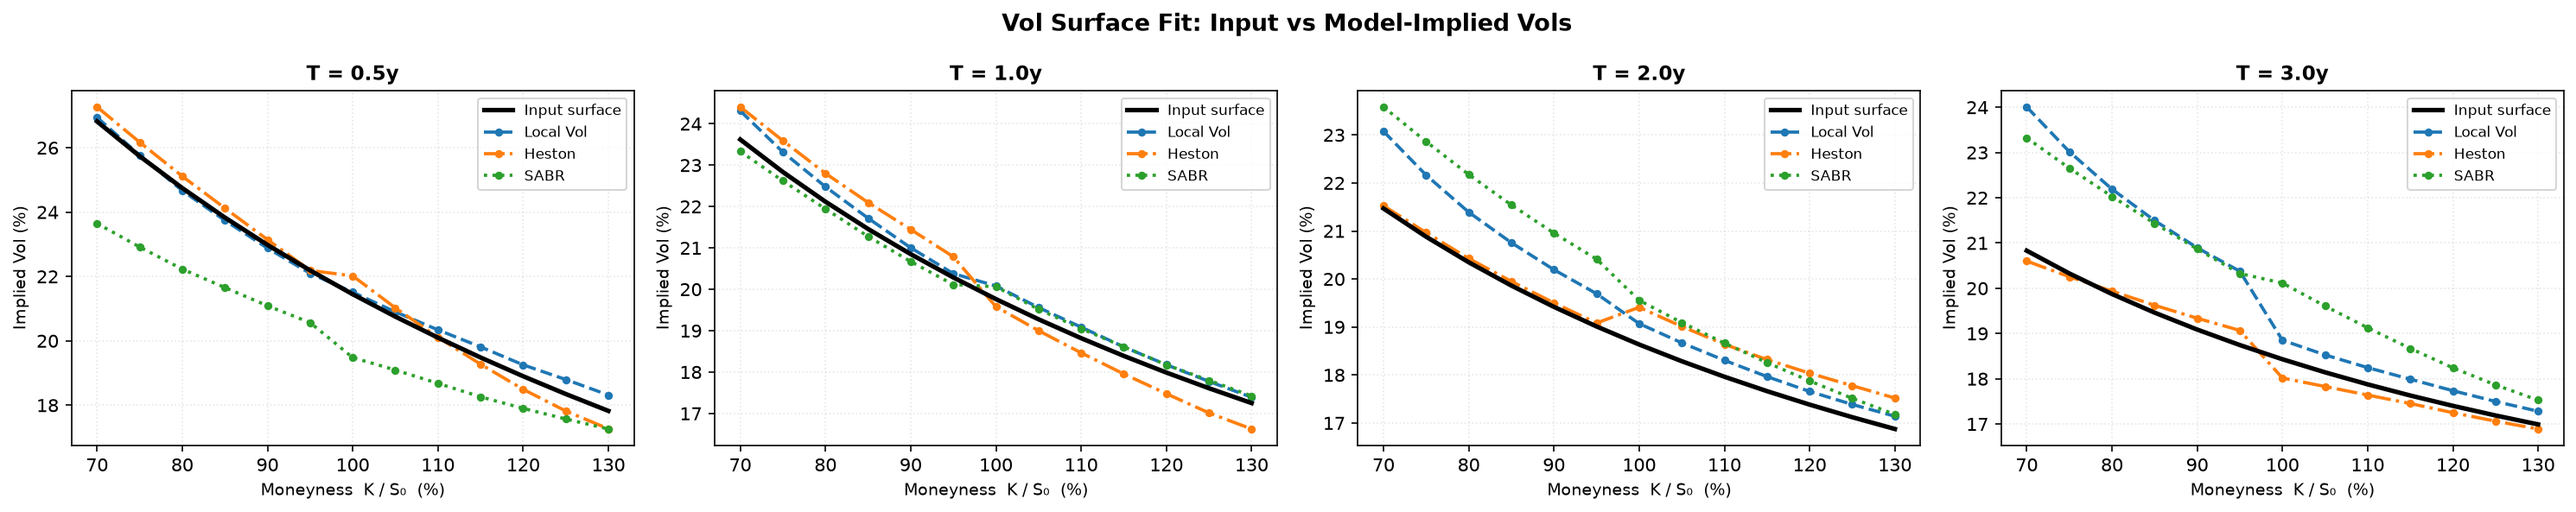
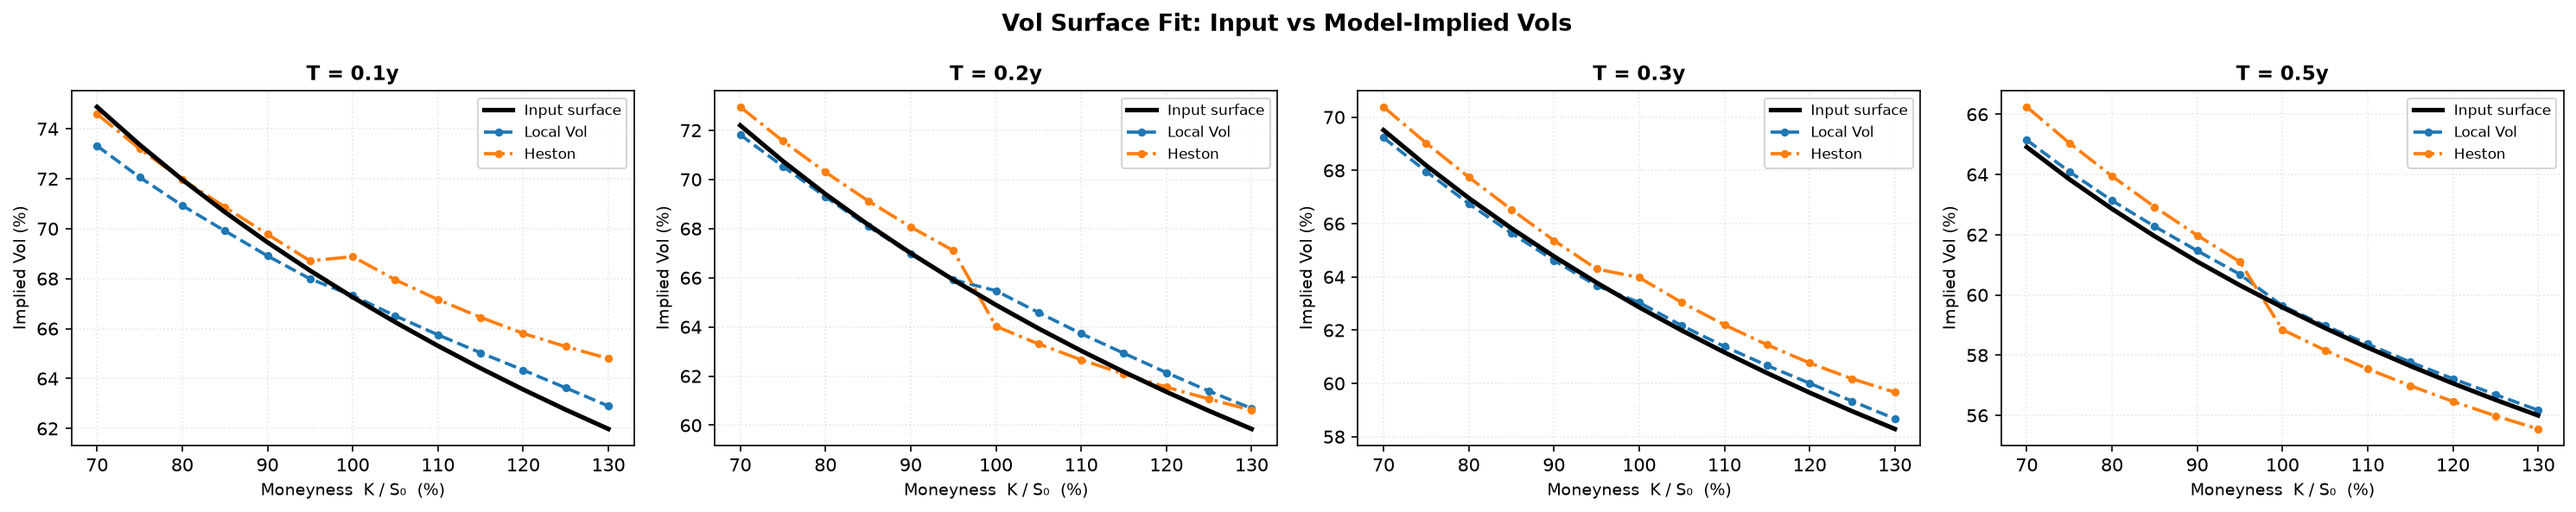
bug fix

diff --git a/main.py b/main.py
@@ -12,6 +12,7 @@ without touching this file.
 import sys
 import os
 import argparse
+import subprocess
 
 sys.path.insert(0, os.path.dirname(__file__))
 
@@ -24,6 +25,71 @@ from models.heston import HestonModel, HestonParams
 from models.sabr import SABRModel, SABRParams
 from products.autocallable import AutocallableNote
 from engine.mc_pricer import MCPricer, compare_models
+from engine.heston_cf import heston_price_batch
+from engine.black_scholes import implied_vol as bs_implied_vol
+
+
+def quick_fit_check(surface, heston_params, sabr_params, spot, rate, div_yield) -> None:
+    """
+    Analytical fit quality check — no MC, completes in ~1 second.
+
+    Evaluates model-implied vols at a small (T, K) grid and reports
+    RMSE and worst-case error in basis points per model.
+
+    Heston: priced via characteristic function (exact).
+    SABR:   priced via Hagan asymptotic formula (exact for beta=1).
+    Local Vol: fits the surface by construction — always exact.
+    """
+    T_min, T_max = surface.maturity_range
+    maturities = sorted({
+        round(max(T_min + 0.01, T_max * 0.25), 2),
+        round(T_max * 0.5, 2),
+        float(T_max),
+    })
+    moneyness = [0.70, 0.80, 0.90, 1.00, 1.10, 1.20, 1.30]
+
+    print("Vol Surface Fit — Analytical Check")
+    print("  Local Vol   exact fit (by construction)")
+
+    checks = []
+    if heston_params is not None:
+        checks.append(("Heston", heston_params))
+    if sabr_params is not None:
+        checks.append(("SABR  ", sabr_params))
+
+    for label, params in checks:
+        errors, worst = [], (0.0, None, None)
+        for T in maturities:
+            F = float(surface.forward(T))
+            strikes = np.array([F * m for m in moneyness])
+            iv_mkt = np.array([surface.implied_vol(T, K) for K in strikes])
+
+            if label.startswith("Heston"):
+                p = params
+                prices = heston_price_batch(spot, strikes, T, rate, div_yield,
+                                            p.kappa, p.theta, p.xi, p.rho, p.v0)
+                iv_mdl = np.array([
+                    bs_implied_vol(float(pr), spot, float(K), T, rate, div_yield, is_call=True)
+                    for pr, K in zip(prices, strikes)
+                ])
+            else:
+                iv_mdl = np.array([
+                    params.hagan_implied_vol(F, float(K), T) for K in strikes
+                ])
+
+            for j, (mkt, mdl, K) in enumerate(zip(iv_mkt, iv_mdl, strikes)):
+                if not np.isnan(mdl):
+                    err = mdl - mkt
+                    errors.append(err)
+                    if abs(err) > abs(worst[0]):
+                        worst = (err, T, K / spot)
+
+        if errors:
+            rmse = np.sqrt(np.mean(np.array(errors) ** 2)) * 10_000
+            max_err = worst[0] * 10_000
+            print(f"  {label}  RMSE: {rmse:5.1f}bp  "
+                  f"max: {max_err:+6.1f}bp  (T={worst[1]:.1f}y, K/S={worst[2]:.0%})")
+    print()
 
 
 def load_config(path: str) -> dict:
@@ -39,6 +105,9 @@ def build_surface(cfg: dict, spot: float, rate: float, div_yield: float):
         return flat_surface(spot=spot, vol=vc["atm_vol"], rate=rate,
                             div_yield=div_yield, T_max=T_max)
     if kind == "term_structure":
+        lo = vc.get("moneyness_lo")
+        hi = vc.get("moneyness_hi")
+        m_range = (float(lo), float(hi)) if (lo is not None and hi is not None) else None
         return term_structure_surface(
             spot=spot, rate=rate, div_yield=div_yield, T_max=T_max,
             vol_short=vc.get("vol_short", 0.25),
@@ -46,6 +115,9 @@ def build_surface(cfg: dict, spot: float, rate: float, div_yield: float):
             kappa=vc.get("kappa", 1.5),
             skew=vc.get("skew", -0.10),
             convexity=vc.get("convexity", 0.02),
+            n_T=int(vc.get("n_T", 30)),
+            n_K=int(vc.get("n_K", 60)),
+            moneyness_range=m_range,
         )
     return skewed_surface(spot=spot, atm_vol=vc["atm_vol"], skew=vc.get("skew", 0.0),
                           rate=rate, div_yield=div_yield, T_max=T_max)
@@ -55,6 +127,13 @@ def main():
     parser = argparse.ArgumentParser(description="Autocallable note pricer")
     parser.add_argument("--config", default="config.yaml",
                         help="Path to YAML config file (default: config.yaml)")
+
+    fit_group = parser.add_mutually_exclusive_group()
+    fit_group.add_argument("--full-diagnostic", action="store_true",
+                           help="Run full MC vol surface diagnostic before pricing "
+                                "(slow — uses diagnostics/model_quality.py)")
+    fit_group.add_argument("--no-fit-check", action="store_true",
+                           help="Skip fit check entirely and go straight to pricing")
     args = parser.parse_args()
 
     cfg = load_config(args.config)
@@ -106,6 +185,8 @@ def main():
     # ── Build pricers for selected models ─────────────────────────────────────
     models_cfg = cfg.get("models", {})
     pricers = []
+    heston_params = None
+    sabr_params = None
 
     if models_cfg.get("local_vol", True):
         lv_model = LocalVolModel(surface=surface, steps_per_year=52, seed=SEED)
@@ -140,6 +221,23 @@ def main():
     if not pricers:
         print("No models selected in config. Enable at least one under 'models:'.")
         sys.exit(1)
+
+    # ── Vol surface fit check ─────────────────────────────────────────────────
+    if args.full_diagnostic:
+        print()
+        print("Running full MC diagnostic (diagnostics/model_quality.py)...")
+        print("-" * 65)
+        subprocess.run(
+            [sys.executable, "-u", "diagnostics/model_quality.py", "--config", args.config],
+            check=True,
+        )
+        print("-" * 65)
+        print()
+    elif not args.no_fit_check:
+        quick_fit_check(surface,
+                        heston_params if models_cfg.get("heston", True) else None,
+                        sabr_params   if models_cfg.get("sabr",   True) else None,
+                        SPOT, RATE, DIV_YIELD)
 
     # ── Run comparison ────────────────────────────────────────────────────────
     print()

diff --git a/diagnostics/model_quality.py b/diagnostics/model_quality.py
@@ -34,7 +34,7 @@ from models.sabr import SABRModel, SABRParams
 from engine.black_scholes import bs_price, implied_vol as bs_implied_vol
 
 # ── Diagnostic grid defaults ───────────────────────────────────────────────────
-DEFAULT_MATURITIES = [0.5, 1.0, 2.0, 3.0]
+DEFAULT_MATURITIES = [0.1, 0.2, 0.3, 0.5]
 DEFAULT_MONEYNESS = np.linspace(0.70, 1.30, 13)   # K/S0
 DEFAULT_N_PATHS = 30_000
 
@@ -52,6 +52,9 @@ def build_surface(cfg: dict, spot: float, rate: float, div_yield: float):
         return flat_surface(spot=spot, vol=vc["atm_vol"], rate=rate,
                             div_yield=div_yield, T_max=T_max)
     if kind == "term_structure":
+        lo = vc.get("moneyness_lo")
+        hi = vc.get("moneyness_hi")
+        m_range = (float(lo), float(hi)) if (lo is not None and hi is not None) else None
         return term_structure_surface(
             spot=spot, rate=rate, div_yield=div_yield, T_max=T_max,
             vol_short=vc.get("vol_short", 0.25),
@@ -59,6 +62,9 @@ def build_surface(cfg: dict, spot: float, rate: float, div_yield: float):
             kappa=vc.get("kappa", 1.5),
             skew=vc.get("skew", -0.10),
             convexity=vc.get("convexity", 0.02),
+            n_T=int(vc.get("n_T", 30)),
+            n_K=int(vc.get("n_K", 60)),
+            moneyness_range=m_range,
         )
     return skewed_surface(spot=spot, atm_vol=vc["atm_vol"], skew=vc.get("skew", 0.0),
                           rate=rate, div_yield=div_yield, T_max=T_max)

diff --git a/models/local_vol.py b/models/local_vol.py
@@ -85,9 +85,13 @@ class LocalVolModel:
             dt = t_next - t_prev
             sqrt_dt = np.sqrt(dt)
 
-            # Local vol at current time and spot (mid-point approximation)
+            # Local vol at current time and spot (mid-point approximation).
+            # Clamp to surface boundary: prevents cubic-spline extrapolation,
+            # which can give wildly wrong values for extreme path realisations.
             t_mid = 0.5 * (t_prev + t_next)
-            sig = np.vectorize(lambda s: self.surface.local_vol(t_mid, s))(S)
+            K_lo, K_hi = self.surface.strike_range
+            S_clamped = np.clip(S, K_lo, K_hi)
+            sig = np.vectorize(lambda s: self.surface.local_vol(t_mid, s))(S_clamped)
 
             Z = self.rng.standard_normal(draw_paths)
             S = S * np.exp((r - q - 0.5 * sig**2) * dt + sig * sqrt_dt * Z)
@@ -117,7 +121,9 @@ class LocalVolModel:
                 dt = t_next - t_prev
                 sqrt_dt = np.sqrt(dt)
                 t_mid = 0.5 * (t_prev + t_next)
-                sig = np.vectorize(lambda s: self.surface.local_vol(t_mid, s))(S_anti)
+                K_lo, K_hi = self.surface.strike_range
+                S_anti_clamped = np.clip(S_anti, K_lo, K_hi)
+                sig = np.vectorize(lambda s: self.surface.local_vol(t_mid, s))(S_anti_clamped)
                 Z = rng2.standard_normal(draw_paths)
                 S_anti = S_anti * np.exp((r - q - 0.5 * sig**2) * dt + sig * sqrt_dt * (-Z))
                 S_anti = np.maximum(S_anti, 1e-6)

diff --git a/calibration/vol_surface.py b/calibration/vol_surface.py
@@ -194,9 +194,9 @@ def term_structure_surface(
     rate: float = 0.0,
     div_yield: float = 0.0,
     T_max: float = 5.0,
-    n_T: int = 20,
-    n_K: int = 30,
-    moneyness_range: tuple[float, float] = (0.5, 1.5),
+    n_T: int = 30,
+    n_K: int = 60,
+    moneyness_range: tuple[float, float] | None = None,
 ) -> ImpliedVolSurface:
     """
     Realistic equity vol surface with ATM term structure, skew term structure,
@@ -219,7 +219,16 @@ def term_structure_surface(
         Negative → equity-like downward skew.
     convexity : float
         Symmetric smile curvature (coefficient of ln(K/F)²). Zero = pure skew.
+    moneyness_range : tuple | None
+        (lo, hi) as fractions of spot. If None, auto-sized to cover ±4.5σ of
+        a GBM path at T_max, ensuring >99.9% of simulated paths stay within
+        the surface and the local vol spline never has to extrapolate.
     """
+    if moneyness_range is None:
+        # ±4.5σ at T_max: covers >99.9% of paths so the spline never extrapolates
+        coverage = 4.5 * vol_short * np.sqrt(T_max)
+        moneyness_range = (max(0.05, np.exp(-coverage)), min(20.0, np.exp(coverage)))
+
     maturities = np.linspace(0.01, T_max, n_T)
     strikes = np.linspace(spot * moneyness_range[0], spot * moneyness_range[1], n_K)
 

diff --git a/scenarios/run_scenarios.py b/scenarios/run_scenarios.py
@@ -55,6 +55,9 @@ def build_surface(cfg: dict, spot: float, rate: float, div_yield: float):
         return flat_surface(spot=spot, vol=vc["atm_vol"], rate=rate,
                             div_yield=div_yield, T_max=T_max)
     if kind == "term_structure":
+        lo = vc.get("moneyness_lo")
+        hi = vc.get("moneyness_hi")
+        m_range = (float(lo), float(hi)) if (lo is not None and hi is not None) else None
         return term_structure_surface(
             spot=spot, rate=rate, div_yield=div_yield, T_max=T_max,
             vol_short=vc.get("vol_short", 0.25),
@@ -62,6 +65,9 @@ def build_surface(cfg: dict, spot: float, rate: float, div_yield: float):
             kappa=vc.get("kappa", 1.5),
             skew=vc.get("skew", -0.10),
             convexity=vc.get("convexity", 0.02),
+            n_T=int(vc.get("n_T", 30)),
+            n_K=int(vc.get("n_K", 60)),
+            moneyness_range=m_range,
         )
     return skewed_surface(spot=spot, atm_vol=vc["atm_vol"], skew=vc.get("skew", 0.0),
                           rate=rate, div_yield=div_yield, T_max=T_max)
